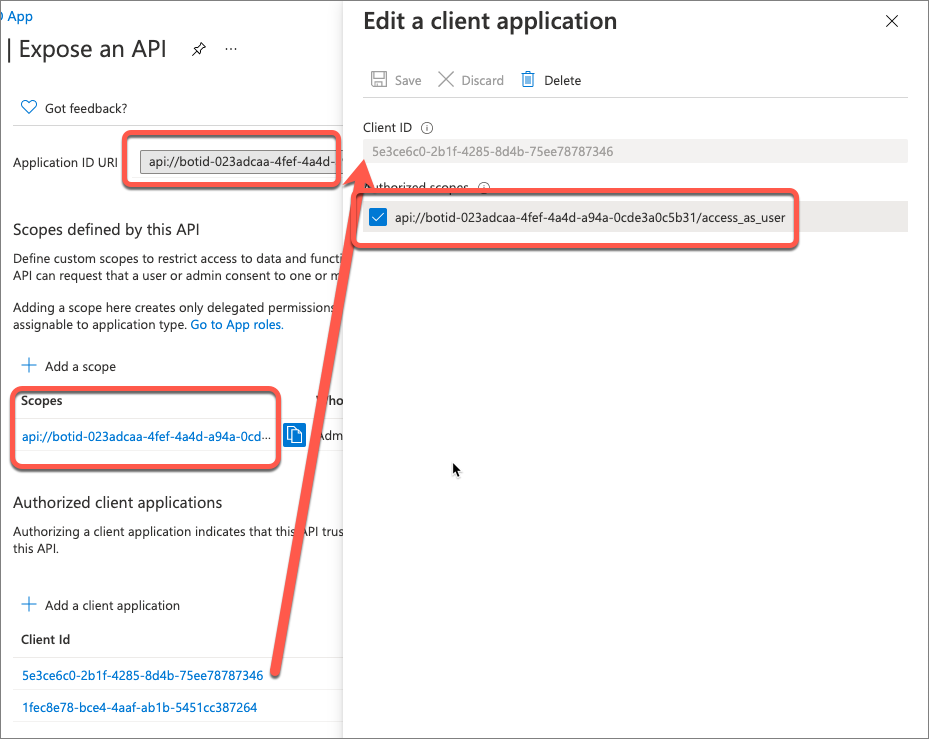
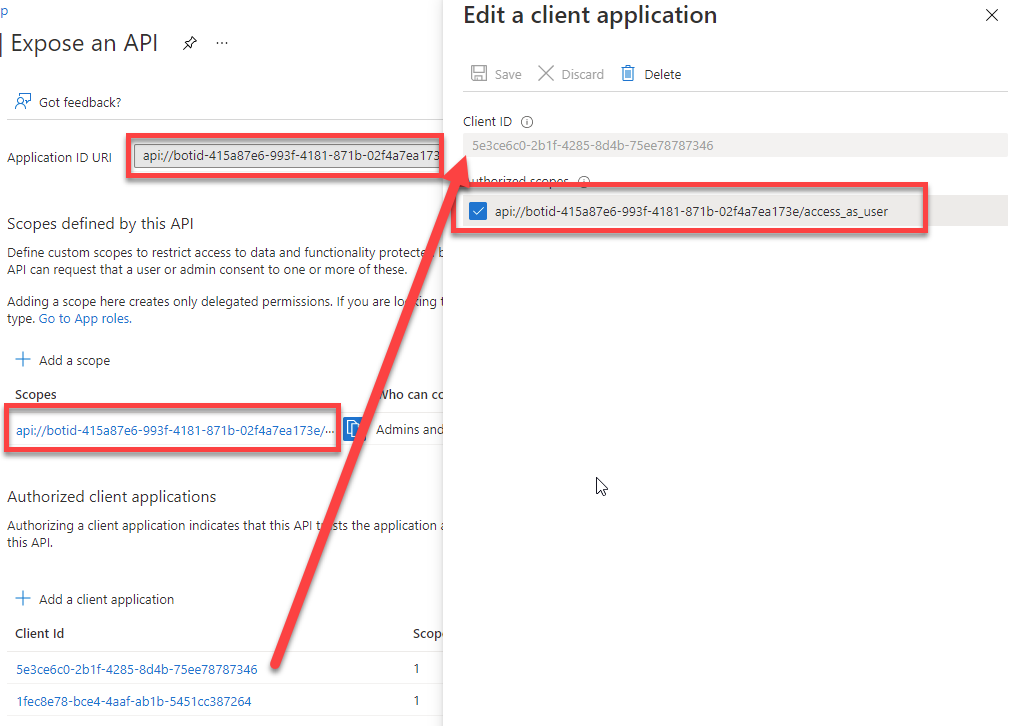
FY22Q2 refresh - msteams-sso
- run through all exercise steps in associated MSLearn module to validate good working order
- updated steps & fixed typos where necessary
- implement changes per Acrolinx feedback
- any & all users/names/company names/pictures/IDs are not real people/tenants... all are from M365 demo tenants provided by Microsoft

diff --git a/learn-m365-pr/m365-developer/msteams-sso/includes/7-exercise-bots-sso.md b/learn-m365-pr/m365-developer/msteams-sso/includes/7-exercise-bots-sso.md
@@ -30,42 +30,6 @@ You'll use Node.js to create a custom Microsoft Teams app in this module. The ex
 
 You must have the minimum versions of these prerequisites installed on your workstation.
 
-## Update the Azure AD app
-
-The next step is to update an Azure AD app you created in a previous exercise of this module. The  Azure AD app will be associated with the bot you'll register in the next step.
-
-Open a browser and navigate to the [Azure Active Directory admin center (https://aad.portal.azure.com)](https://aad.portal.azure.com). Sign in using a **Work or School Account** that has global administrator rights to the tenancy.
-
-Select **Manage > App registrations** in the left-hand navigation and select the **My Teams SSO App**.
-
-### Update authentication settings
-
-Next, select **Manage > Authentication** in the left-hand navigation.
-
-Change the **RedirectURI** to `https://token.botframework.com/.auth/web/redirect`.
-
-### Update the exposed API settings
-
-Next, select **Manage > Expose API** in the left-hand navigation.
-
-Currently, the **Application ID URI** looks similar to the following:
-
-```text
-api://d4fa28c4e203.ngrok.io/023adcaa-4fef-4a4d-a94a-0cde3a0c5b31
-```
-
-Remove the dynamic subdomain and slash and replace them with `botid-`. For example:
-
-```txt
-api://botid-023adcaa-4fef-4a4d-a94a-0cde3a0c5b31
-```
-
-Notice that the values of the **Scopes defined by this API** and **Authorized client applications** will now reflect this change as well:
-
-![Screenshot of updated expose API settings](../media/07-azure-ad-app-expose-api-01.png)
-
-With the Azure AD app configuration updated, the next step is to register the bot with Azure Bot Framework.
-
 ## Register the bot with the Microsoft Azure Bot Framework
 
 When you register a new bot with Azure Bot Framework, you'll need the URL where the bot will run. Bots, like tabs, must be served from a publicly accessible domain served over HTTPS. Like the previous exercises in this module, you'll use ngrok to expose the local web server to the Azure Bot Framework.
@@ -115,13 +79,49 @@ Select **Create**.
 
 Azure will start to provision the new resource. This will take a moment or two. Once it's finished, navigate to the bot resource in the resource group.
 
-After the bot has been provisioned, select it from within the new resource group you previously created.
+After the bot has been provisioned, select it from within the new resource group you previously created. Select **Configuration** from the left-hand navigation. Copy the Microsoft App ID of the bot as you'll need it later.
+
+![Screenshot of the bot's settings page](../media/07-azure-bot-registration-02a.png)
+
+## Update the Azure AD app
+
+The next step is to update an Azure AD app you created in a previous exercise of this module. The  Azure AD app will be associated with the bot you'll register in the next step.
+
+Open a browser and navigate to the [Azure Active Directory admin center (https://aad.portal.azure.com)](https://aad.portal.azure.com). Sign in using a **Work or School Account** that has global administrator rights to the tenancy.
+
+Select **Manage > App registrations** in the left-hand navigation and select the **My Teams SSO App**.
+
+### Update authentication settings
+
+Next, select **Manage > Authentication** in the left-hand navigation.
+
+Change the **RedirectURI** to `https://token.botframework.com/.auth/web/redirect`.
+
+### Update the exposed API settings
+
+Next, select **Manage > Expose API** in the left-hand navigation.
+
+Currently, the **Application ID URI** looks similar to the following:
+
+```text
+api://d4fa28c4e203.ngrok.io/023adcaa-4fef-4a4d-a94a-0cde3a0c5b31
+```
+
+Replace URI with the string `botid-` followed by the Microsoft App ID of the bot (copied above). For example:
+
+```txt
+api://botid-415a87e6-993f-4181-871b-02f4a7ea173e
+```
+
+Notice that the values of the **Scopes defined by this API** and **Authorized client applications** will now reflect this change as well:
+
+![Screenshot of updated expose API settings](../media/07-azure-ad-app-expose-api-01.png)
+
+With the Azure AD app configuration updated, the next step is to configure the bot service connection to the app.
 
 ### Configure the bot service connection (token store)
 
-Define the OAuth connection setting for the bot.
-
-Select **Settings > Configuration** from the left-hand menu.
+Navigate to the Azure Portal and select the bot registered above. Then select **Settings > Configuration** from the left-hand menu.
 
 Select the **Add OAuth Connection Settings** button on the **Configuration** screen.
 
@@ -131,9 +131,9 @@ Use the following values to create a new connection setting, and then select **S
 
 - **Name**: *enter a name for your connection, but copy this as you'll need it later when updating the project*
 - **Service Provider**: Azure Active Directory v2
-- **Client ID**: *use the Azure AD app's client ID from the previous exercise*
+- **Client ID**: *use the Azure AD app's client ID (the My Teams SSO application above)*
 - **Client secret**: *use the Azure AD app's client secret from the previous exercise*
-- **Token exchange URL**: *use the Azure AD app's application ID URI you updated previously in this exercise*
+- **Token exchange URL**: *use the Azure AD app's application ID URI you updated previously in this exercise (api://botid-{{Microsoft App Id}})*
 - **Tenant ID**: common
 - **Scopes**: Mail.Read openid profile User.Read
   - *This is a space-delimited list of all permissions the bot needs that have also been added to the Azure AD app you previously. The list contains a subset of the permissions listed in the Azure AD app from the exercises in this module that the bot will use.*
@@ -213,12 +213,12 @@ MICROSOFT_APP_PASSWORD=-fcY3P_1UoDV441_k58a37ylT9U_q6a-UD
 ```
 
 > [!NOTE]
-> The client secret listed above is only included as an example. Make sure you enter the secret you obtains when you registered the Azure AD app. If you don't have it, you can create another one and enter it here.
+> The client secret listed above is only included as an example. Make sure you enter the secret you obtained when you registered the Azure AD app. If you don't have it, you can create another one and enter it here.
 
 Add a new variable immediately after the `MICROSOFT_APP_PASSWORD`. Set the value of this variable to the name of the Bot's OAuth connection setting that you created previously in this exercise:
 
 ```text
-SSO_CONNECTION_NAME=MyTeamsBot003OAuthConnection
+SSO_CONNECTION_NAME={{OAUTH_CONNECTION_SETTING_NAME}}
 ```
 
 ### Add the bot to the Teams app manifest
@@ -237,10 +237,9 @@ Locate the bot by finding the `bots` array. It contains a single entry for your 
   "scopes": ["personal"],
   "commandLists": [{
     "scopes": ["personal"],
-    "commands": [{
-      "title": "Help",
-      "description": "Shows help information"
-    }]
+    "commands": [
+      ...
+    ]
   }]
 }],
 ```
@@ -250,7 +249,7 @@ Next, locate the `validDomains` array. Add `token.botframework.com` to the list 
 ```json
 "validDomains": [
   "token.botframework.com",
-  "{{HOSTNAME}}"
+  "{{PUBLIC_HOSTNAME}}"
 ],
 ```
 
@@ -306,7 +305,7 @@ export class SsoOAuthHelper {
   }
 
   public async exchangeToken(turnContext: TurnContext): Promise<boolean> {
-    let tokenExchangeResponse: TokenResponse;
+    let tokenExchangeResponse: TokenResponse | null = null;
     const tokenExchangeRequest = turnContext.activity.value;
 
     try {
@@ -320,7 +319,7 @@ export class SsoOAuthHelper {
       //   above stays null; send failure invoke response to the caller.
     }
 
-    if (!tokenExchangeResponse || !tokenExchangeResponse.token) {
+    if (tokenExchangeResponse === null || !tokenExchangeResponse.token) {
       // The token could not be exchanged (which could be due to a consent requirement)
       // Notify the sender that PreconditionFailed so they can respond accordingly.
       await turnContext.sendActivity({
@@ -565,11 +564,19 @@ import {
 import jwtDecode from "jwt-decode";
 
 export class TokenExchangeInvokeResponse {
+  id: string;
+  connectionName: string;
+  failureDetail: string;
+
+  constructor(id: string, connectionName: string, failureDetail: string) {
+    this.id = id;
+    this.connectionName = connectionName;
+    this.failureDetail = failureDetail;
+  }
 }
 
 export class SsoOauthPrompt extends OAuthPrompt {
   public async continueDialog(dialogContext: DialogContext): Promise<DialogTurnResult> {
-
     // if token previously successfully exchanged, it should be cached in
     //  TurnState along with the TokenExchangeInvokeRequest
     const cachedTokenResponse = dialogContext.context.turnState.get("tokenExchangeResponse");
@@ -657,16 +664,29 @@ The last step in creating our bot is to implement the bot itself.
 Create a new file, **./src/server/SsoBot/SsoBot.ts**, and add the following code to it:
 
 ```typescript
-import { DialogBot } from "./DialogBot";
-import { MainDialog } from "./dialogs/mainDialog";
+import { BotDeclaration } from "express-msteams-host";
+import * as debug from "debug";
 import {
   ConversationState,
   UserState,
   SigninStateVerificationQuery,
-  TurnContext
+  TurnContext,
+  MemoryStorage
 } from "botbuilder";
-import { SsoOAuthHelper } from "./helpers/SsoOauthHelper";
+import { DialogBot } from "./DialogBot";
+import { MainDialog } from "./dialogs/mainDialog";
+import { SsoOAuthHelper } from "./helpers/SsoOAuthHelper";
 
+// Initialize debug logging module
+const log = debug("msteams");
+
+@BotDeclaration(
+  "/api/messages",
+  new MemoryStorage(),
+  // eslint-disable-next-line no-undef
+  process.env.MICROSOFT_APP_ID,
+  // eslint-disable-next-line no-undef
+  process.env.MICROSOFT_APP_PASSWORD)
 export class SsoBot extends DialogBot {
   public _ssoOAuthHelper: SsoOAuthHelper;
 
@@ -715,76 +735,18 @@ The handler for the `signin/tokenExchange` activity uses the helper we previousl
 
 The last step is to add the bot to the web server when it starts.
 
-Locate and open the **./src/server/server.ts** file.
-
-Add the following two `import` statements after the existing `import` statements:
+Locate and open the file **./src/server/TeamsAppsComponents.ts**. Add the following to the end of the file:
 
 ```typescript
-import {
-  BotFrameworkAdapter,
-  ConversationState,
-  MemoryStorage,
-  UserState,
-  TurnContext
-} from "botbuilder";
-
-import { SsoBot } from "./SsoBot/SsoBot";
+export * from "./SsoBot/SsoBot";
 ```
-
-Within the **server.ts** file, find the following line:
-
-```typescript
-express.use(MsTeamsApiRouter(allComponents));
-```
-
-This code loads all components listed in the **./src/server/TeamsAppsComponents.ts** file within the web server. Instead of relying on this, we'll manually add the bot to the web server.
-
-Add the following code immediately following the line above:
-
-```typescript
-const adapter = new BotFrameworkAdapter({
-  appId: process.env.MICROSOFT_APP_ID,
-  appPassword: process.env.MICROSOFT_APP_PASSWORD
-});
-
-const memoryStorage = new MemoryStorage();
-const conversationState = new ConversationState(memoryStorage);
-const userState = new UserState(memoryStorage);
-
-const bot = new SsoBot(conversationState, userState);
-
-// listen for bot messages
-express.post("/api/messages", (req, res) => {
-  adapter.processActivity(req, res, async (context: TurnContext) => {
-    await bot.run(context);
-  });
-});
-
-// handle errors
-adapter.onTurnError = async (context, error) => {
-  console.error(`bot onTurnError: ${error}`);
-  await context.sendActivity('Bot encountered an error... see console');
-  await conversationState.delete(context);
-};
-```
-
-This code will create an instance of the `BotFrameworkAdapter`, initialized with our Azure AD app's credentials. It then runs our bot whenever an activity is received on the **/api/messages** endpoint.
-
-Lastly, locate and open the file **./src/server/TeamsAppsComponents.ts**. Make sure this file doesn't reference our bot, nor any non-existent files in our project. For instance, the default template may include a reference to the following file:
-
-```typescript
-export * from "./Bot/";
-```
-
-If so, delete or comment out that line.
-
 
 ## Build and test the application
 
 From the command line, navigate to the root folder for the project and execute the following command:
 
 ```console
-gulp ngrok-serve
+gulp ngrok-serve --debug
 ```
 
 This gulp task will run many other tasks all displayed within the command-line console. The **ngrok-serve** task builds your project and starts a local web server (http://localhost:3007). It then starts ngrok with a random subdomain that creates a secure URL to your local webserver.
@@ -815,7 +777,7 @@ In the file dialog that appears, select the Microsoft Teams package in your proj
 > If the **./package** folder is not present, this means you are affected by a bug in the yoteams-deploy package. To resolve the issue:
 > - Stop the local web server by pressing <kbd>CTRL</kbd>+<kbd>C</kbd> in the console.
 > - Install the preview version of the **yoteams-deploy** package using the command `npm install yoteams-deploy@preview`
-> - Restart the server process: `gulp ngrok-serve`
+> - Restart the server process: `gulp ngrok-serve --debug`
 
 Once the package is uploaded, Microsoft Teams will display a summary of the app. Here you can see some "todo" items to address. _None of these "todo" items are important to this exercise, so you'll leave them as is._
 

diff --git a/learn-m365-pr/m365-developer/msteams-sso/includes/3-exercise-single-sign-on.md b/learn-m365-pr/m365-developer/msteams-sso/includes/3-exercise-single-sign-on.md
@@ -80,9 +80,9 @@ Next, select **Add a scope** to add a new permission for the app. Create a new s
 
 - **Scope name:** access_as_user
 - **Who can consent?** Admins and users
-- **Admin consent title:** Teams can access the user’s profile.
+- **Admin consent display name:** Teams can access the user’s profile.
 - **Admin consent description:** Teams can call the app’s web APIs as the current user.
-- **User consent title:** Teams can access the user profile and make requests on the user's behalf.
+- **User consent display name:** Teams can access the user profile and make requests on the user's behalf.
 - **User consent description:** Teams can call this app’s APIs with the same rights as the user.
 - **State**: Enabled
 

diff --git a/learn-m365-pr/m365-developer/msteams-sso/includes/1-introduction.md b/learn-m365-pr/m365-developer/msteams-sso/includes/1-introduction.md
@@ -9,7 +9,7 @@ In this module, you'll learn about the different authentication flows supported 
 - Basic knowledge of Microsoft Graph
 - Ability to program with JavaScript and Node.js
 - Experience using Visual Studio Code at the beginner level
-- Access to a [Microsoft 365 tenant](https://developer.microsoft.com/office/dev-program?ocid=MSlearn)
+- Access to a [Microsoft 365 tenant](https://developer.microsoft.com/microsoft-365/dev-program?ocid=MSlearn)
 - Access to a [Microsoft Azure subscription](https://azure.microsoft.com/free/)
 
 ### Learning objectives

diff --git a/learn-m365-pr/m365-developer/msteams-sso/includes/5-exercise-tabs-sso.md b/learn-m365-pr/m365-developer/msteams-sso/includes/5-exercise-tabs-sso.md
@@ -453,7 +453,7 @@ Add the following code immediately before the existing `return` statement.
 ```typescript
 useEffect(() => {
   getRecentEmails();
-}, [msGraphOboToken]);
+}, [getRecentEmails, msGraphOboToken]);
 ```
 
 The last step is to update the rendering in the component's `return` statement to include the list of recent emails. Locate following code in the `return` statement:
